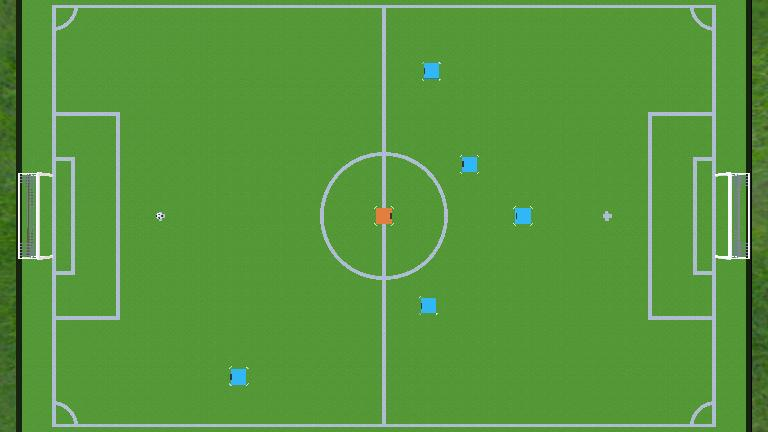
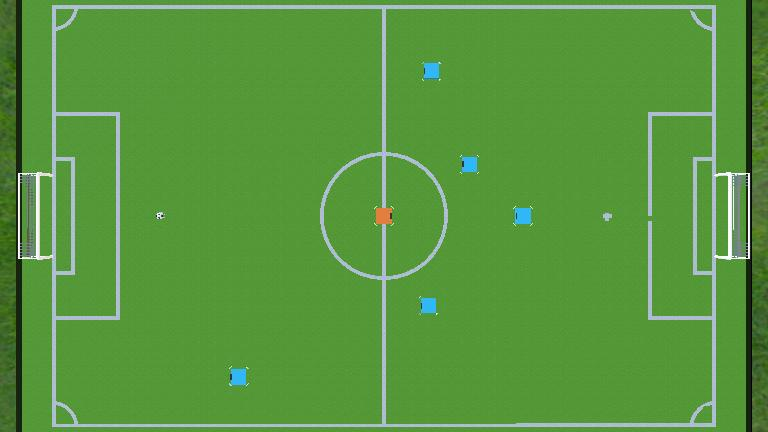
Separated omni_wheels Controller for Obstacles
Added a new controller which will be used to randomly move obstacles to create a dynamic environment. Removed the code for supervisor set velocities.

Changed region(s): [[0.0625, 0.0, 0.9375, 0.0301], [0.6875, 0.963, 0.9375, 0.9931]]

diff --git a/controllers/omniwheel_supervisor/main.cpp b/controllers/omniwheel_supervisor/main.cpp
@@ -63,52 +63,13 @@ int findclosestpoint(std::vector<Point2D> &targetPos, Point2D &nowPos) {
     return idx;
 }
 
-// Function to calculate the distance between two points (x1, y1) and (x2, y2)
-// double calculateDistance(int x1, int y1, int x2, int y2) {
-//     return std::sqrt(std::pow(x2 - x1, 2) + std::pow(y2 - y1, 2));
-// }
-
-// std::vector<std::pair<int, int>> generateDistinctPoints(double x, double y) {
-    
-//     std::vector<int> X;
-//     std::vector<int> Y;
-//     double r=0.8;
-
-//     for (int i = -10; i <= 10; ++i) {
-//         X.push_back(i);
-//         if(i <7 && i > -7) Y.push_back(i);
-//     }
-
-//     // Shuffle the vector to get random order
-//     std::random_shuffle(X.begin(), X.end());
-//      std::random_shuffle(Y.begin(), Y.end());
-
-//     std::vector<std::pair<int, int>> points;
-//     for(auto &a:X)
-//     {
-//         for(auto b:Y)
-//         {
-//             points.push_back({a, b});
-//         }
-//     } 
-
-//     // Take the first 5 elements as distinct points outside the circle
-//     for(auto &it : points)
-//     {
-//         if(calculateDistance(it.first, it.second, x, y) <=r) points.erase(it);
-//     }
-
-//     return points;
-// }
-
 void get_Trajectory(std::vector<Point2D> &path, Point2D &outputPID,
                     Point2D &nowPos, wheelAngularVel &outInvers, double yaw,
                     std::vector<Point2D> &obstacles, Point2D &ball) {
-    // std::cout<<ball.x<<std::endl;
     window->visualizeGame(path, nowPos, count1, yaw, obstacles, ball);
 
     path[count1].theta = (180.0 / 3.14159) * atan2((ball.y - path[count1].y),
-                                                  (ball.x - path[count1].x));
+                                                   (ball.x - path[count1].x));
 
     double errorX = path[count1].x - nowPos.x;
     double errorY = path[count1].y - nowPos.y;
@@ -229,13 +190,10 @@ int main(int argc, char **argv) {
     Point2D Ball;
     long long int count1 = 0;
     long long int count2 = 1;
-    long long int c = 0;
 
     std::vector<Point2D> obstacles(5);
     std::vector<Point2D> targetPos;
     std::vector<PointPair> points;  // from output.txt
-    std::vector<std::pair<int, int>> randompoints; //for obstacles
-
 
     // OMPL Setup Parameter
     double runTime = 0.5;
@@ -260,25 +218,6 @@ int main(int argc, char **argv) {
     char motorNames[4][8] = {"wheel1", "wheel2", "wheel3", "wheel4"};
 
     Node *target_line = robotSup->getFromDef("OMNI_WHEELS_4");
-    Node *B1 = robotSup->getFromDef("B1");
-    Node *B2 = robotSup->getFromDef("B2");
-    Node *B3 = robotSup->getFromDef("B3");
-    Node *B4 = robotSup->getFromDef("B4");
-    Node *B5 = robotSup->getFromDef("B5");
-
-    // Set the position of the object
-    // Field *positionField1 = B1->getField("translation");
-    // Field *positionField2 = B2->getField("translation");
-    // Field *positionField3 = B3->getField("translation");
-    // Field *positionField4 = B4->getField("translation");
-    // Field *positionField5 = B5->getField("translation");
-    // Node *target_robot = robotSup->getFromDef("field");
-
-    double v1[6] = {4.0, 5.0, 0.0, 0.0, 0.0, 0.0};
-    double v2[6] = {3.0, 5.0, 0.0, 0.0, 0.0, 0.0};
-    double v3[6] = {0.0, 10.0, 0.0, 0.0, 0.0, 0.0};
-     // Set the desired linear velocity (adjust as needed)
-    // B2->setVelocity(velocity);
 
     // SET the first Position our Robot
     RobotKinematic::getInstance()->setInitialPosition(
@@ -319,9 +258,6 @@ int main(int argc, char **argv) {
     //     float y_ = 1 * sin((float)i * M_PI / 180);
     //     circVec.push_back(Point2D(x_, y_, 0));
     // }
-
-    // std::vector<PointPair> points = readPointsFromFile();
-
     // std::vector<Point2D> targetPos;
     // for (auto &ptr : points) {
     //     targetPos.push_back(Point2D(ptr.first, ptr.second, 0));
@@ -332,11 +268,6 @@ int main(int argc, char **argv) {
     Point2D gps_pos{0, 0, 0};
 
     while (robotSup->step(stepTime) != -1) {
-        //     std::chrono::high_resolution_clock::time_point start_time =
-        //         std::chrono::high_resolution_clock::now();
-        //     // Get Current Translation
-        //     double rbtime = robotSup->getTime();
-
         const double *robotTranslations = target_line->getPosition();
         const double *orientation = imu_device->getRollPitchYaw();
         const double yaw = orientation[2];
@@ -371,23 +302,6 @@ int main(int argc, char **argv) {
             getOtherPositionYaw("B" + std::to_string(i + 1), obstacles[i]);
         }
 
-        // std::cout<<count1<<std::endl;
-        if(c%20==0){
-            B1->setVelocity(v1);
-            B2->setVelocity(v1);
-            B3->setVelocity(v2);
-            B4->setVelocity(v2);
-            B5->setVelocity(v3);
-            v2[0] = -v2[0];
-            v2[1] = -v2[1];
-            v1[1] = -v1[1];
-            v1[0] = -v1[0];
-            v3[1]=-v3[1];
-        
-        }
-        c++;
-        c= c%1000000000;
-
         if (count2 % 5 == 0) {
             int idx = findclosestpoint(targetPos,
                                        nowPos);  // excluding the last point
@@ -398,43 +312,12 @@ int main(int argc, char **argv) {
                         count1++;
                 } else if (idx + 1 >= obstacles.size()) {
                     if (!isok(targetPos[idx - 1], targetPos[idx], it)) count1++;
-                }   
+                }
             }
             if (count1 != obstacles.size()) flag = 1;
             std::cout << count1 << std::endl;
             count1 = 0;
-
-
-            //setting obs pos
-                // randompoints = generateDistinctPoints((double)nowPos.x, (double)nowPos.y);
-
-                // const double newPosition[] = {randompoints[0].first, randompoints[0].second, 0};
-                // positionField1->setSFVec3f(newPosition);
-
-                // const double newPosition1[] = {randompoints[1].first, randompoints[1].second, 0};
-                // positionField5->setSFVec3f(newPosition1);
-
-                // const double newPosition4[] = {randompoints[2].first, randompoints[2].second, 0};
-                // positionField4->setSFVec3f(newPosition4);
-
-                // const double newPosition2[] = {randompoints[3].first, randompoints[3].second, 0};
-                // positionField3->setSFVec3f(newPosition2);
-
-                // const double newPosition3[] = {randompoints[4].first, randompoints[4].second, 0};
-                // positionField2->setSFVec3f(newPosition3);
-
         }
-
-            //     for(auto & it : points){
-            //         for (auto &ptr : obstacles) {
-            //             if (sqrt((it.first - ptr.x) * (it.first - ptr.x) +
-            //             (it.second - ptr.y) * (it.second - ptr.y)) - r >0.0)
-            //                 count1++;
-            //         }
-            // if(count1!=obstacles.size()) {flag=1;}
-            // std::cout<<count1<<std::endl;
-            // count1=0;
-        
 
         if (flag || count2 == 1) {
             plan(runTime, 22, 14, obstacles, plannerType, objectiveType,

diff --git a/controllers/omniwheel_supervisor/PathPlanner.hpp b/controllers/omniwheel_supervisor/PathPlanner.hpp
@@ -26,20 +26,18 @@
 #include <boost/algorithm/string.hpp>
 // For std::make_shared
 #include <fstream>
-#include <memory>
-
 #include <iostream>
+#include <memory>
 #include <vector>
+
 #include "spline.h"
-#include <bits/stdc++.h>
 
 namespace ob = ompl::base;
 namespace og = ompl::geometric;
 
 using namespace std;
 
-bool sortbysec(const pair<int,int> &a, const pair<int,int> &b)
-{
+bool sortbysec(const pair<int, int> &a, const pair<int, int> &b) {
     return (a.second > b.second);
 }
 
@@ -352,9 +350,9 @@ void plan(double runTime, double A, double B, std::vector<Point2D> &obs,
         std::vector<double> T(x_values.size());
 
         // std::vector< std::pair<double, std::pair<double, double> > > v;
-        
+
         // float start_x=x_values.front(), end_x=x_values.back();
-        
+
         // if (start_x > end_x)
         // {
         //     std::reverse(x_values.begin(),x_values.end());
@@ -363,28 +361,29 @@ void plan(double runTime, double A, double B, std::vector<Point2D> &obs,
 
         // tk::spline s(x_values,y_values,tk::spline::cspline);
 
-        T[0]=0;
-        for(int i=1; i<x_values.size(); i++)
-        {
-            T[i] = T[i-1] + sqrt( (x_values[i]-x_values[i-1])*(x_values[i]-x_values[i-1]) + (y_values[i]-y_values[i-1])*(y_values[i]-y_values[i-1]) );
+        T[0] = 0;
+        for (int i = 1; i < x_values.size(); i++) {
+            T[i] = T[i - 1] + sqrt((x_values[i] - x_values[i - 1]) *
+                                       (x_values[i] - x_values[i - 1]) +
+                                   (y_values[i] - y_values[i - 1]) *
+                                       (y_values[i] - y_values[i - 1]));
         }
         // setup splines for x and y coordinate
-        tk::spline sx(T,x_values), sy(T,y_values);
+        tk::spline sx(T, x_values), sy(T, y_values);
 
         // Array to store robot positions
         std::vector<std::pair<double, double>> robot_positions;
 
-        float n=10, diff = T.back()/n;
-        for (int i = 0 ; i < n ; i++ )
-        {
-            float t = diff*i;
+        float n = 10, diff = T.back() / n;
+        for (int i = 0; i < n; i++) {
+            float t = diff * i;
             robot_positions.push_back({sx(t), sy(t)});
         }
         robot_positions.push_back({sx(T.back()), sy(T.back())});
 
         // Display the array of robot positions
         std::cout << "Robot Positions:\n";
-        for (const auto& pos : robot_positions) {
+        for (const auto &pos : robot_positions) {
             std::cout << "(" << pos.first << ", " << pos.second << ")\n";
         }
 
@@ -394,7 +393,7 @@ void plan(double runTime, double A, double B, std::vector<Point2D> &obs,
             std::cerr << "Error opening output file." << std::endl;
         }
 
-        for (const auto& pos : robot_positions) {
+        for (const auto &pos : robot_positions) {
             output_file << pos.first << " " << pos.second << "\n";
         }
         output_file.close();

diff --git a/controllers/omni_wheels/omni_wheels.c b/controllers/omni_wheels/omni_wheels.c
@@ -1,0 +1,57 @@
+/*
+ * Copyright 1996-2023 Cyberbotics Ltd.
+ *
+ * Licensed under the Apache License, Version 2.0 (the "License");
+ * you may not use this file except in compliance with the License.
+ * You may obtain a copy of the License at
+ *
+ *     https://www.apache.org/licenses/LICENSE-2.0
+ *
+ * Unless required by applicable law or agreed to in writing, software
+ * distributed under the License is distributed on an "AS IS" BASIS,
+ * WITHOUT WARRANTIES OR CONDITIONS OF ANY KIND, either express or implied.
+ * See the License for the specific language governing permissions and
+ * limitations under the License.
+ */
+
+/*
+ * Description: Demo of a three-omni-wheels robot
+ * Thanks to Mehdi Ghanavati, Shahid Chamran University
+ */
+
+#include <stdio.h>
+#include <webots/motor.h>
+#include <webots/robot.h>
+
+static WbDeviceTag wheels[3];
+
+static double cmd[5][3] = {
+    {-2, 1, 1}, {0, 1, -1}, {2, -1, -1}, {0, -1, 1}, {2, 2, 2},
+};
+
+static double SPEED_FACTOR = 4.0;
+
+int main() {
+    int i, j, k;
+
+    // initialize Webots
+    wb_robot_init();
+
+    for (i = 0; i < 3; i++) {
+        char name[64];
+        sprintf(name, "wheel%d", i + 1);
+        wheels[i] = wb_robot_get_device(name);
+        wb_motor_set_position(wheels[i], INFINITY);
+    }
+
+    while (1) {
+        for (i = 0; i < 5; i++) {
+            for (j = 0; j < 3; j++)
+                wb_motor_set_velocity(wheels[j], cmd[i][j] * SPEED_FACTOR);
+
+            for (k = 0; k < 100; k++) wb_robot_step(8);
+        }
+    }
+
+    return 0;
+}
